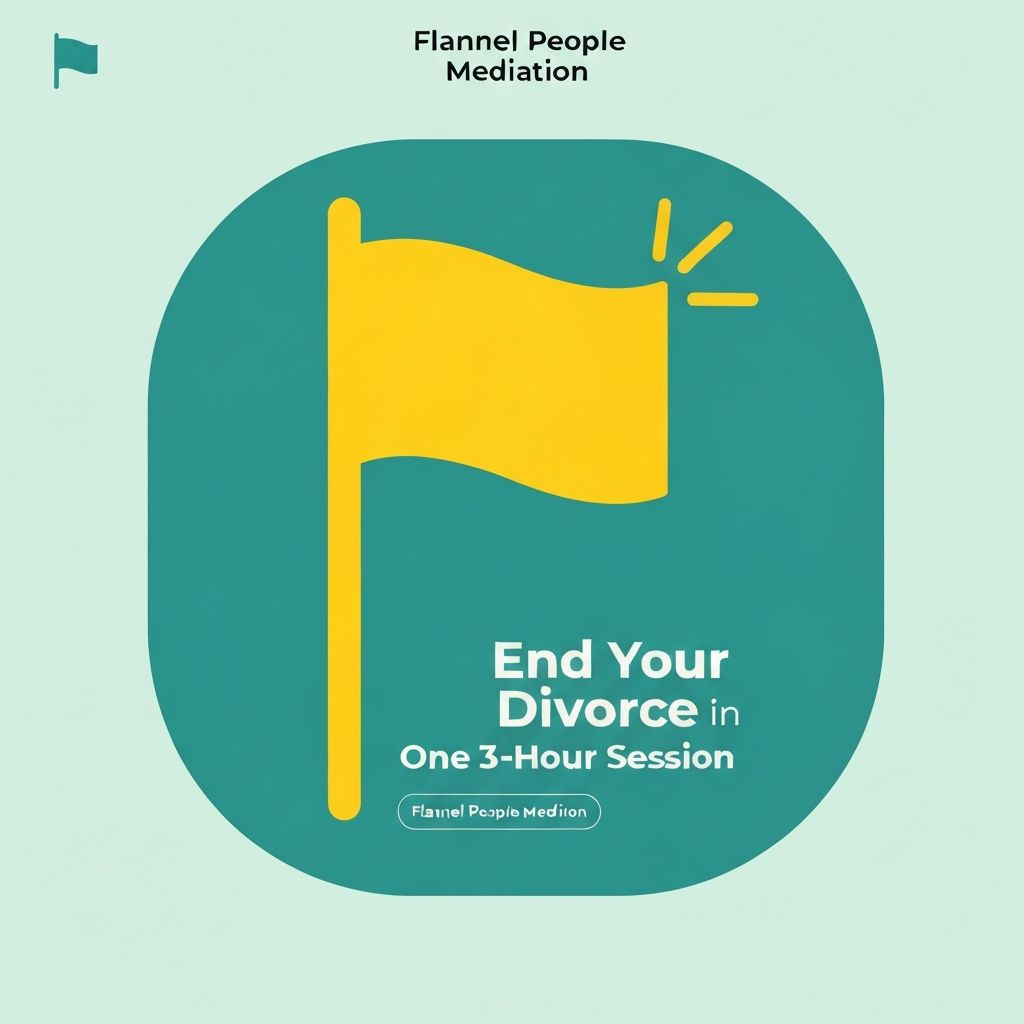
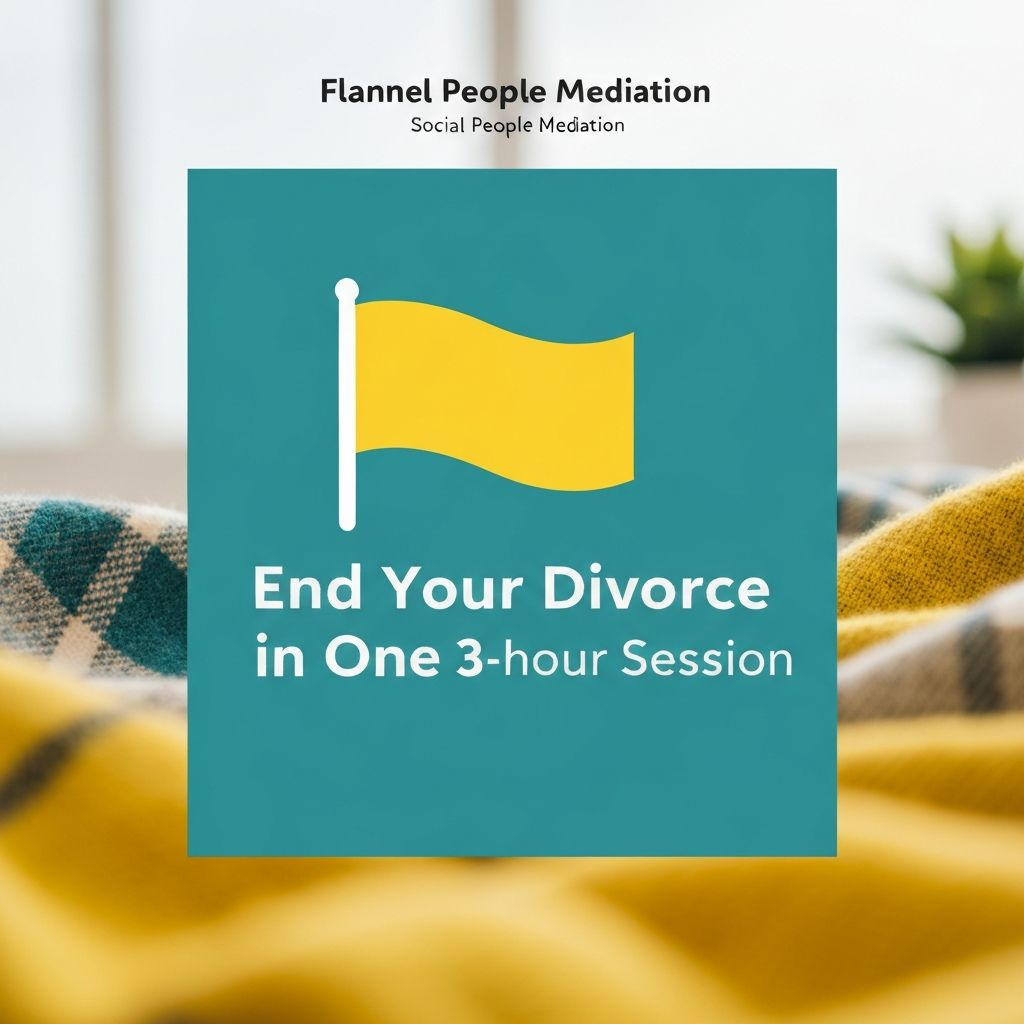
feat: replace OG preview image with professional photo
Update metadata to use new collaborative image for social sharing

diff --git a/app/layout.tsx b/app/layout.tsx
@@ -24,12 +24,12 @@ export const metadata: Metadata = {
   description:
     "End your divorce in one calm, private 3-hour Zoom session. $795 each. No lawyers, no court. Most MN couples finish in one session with peace.",
   generator: "v0.app",
-  metadataBase: new URL("https://flannelpeoplemediation.com"),
+  metadataBase: new URL("https://yes.flannelpeoplemediation.com"),
   openGraph: {
     title: "Flannel People Mediation - End Your Divorce in One 3-Hour Session",
     description:
       "No lawyers. No court battle. From home. Most couples finish in one session. $795 flat fee virtual divorce mediation for MN couples.",
-    url: "https://flannelpeoplemediation.com",
+    url: "https://yes.flannelpeoplemediation.com",
     siteName: "Flannel People Mediation",
     images: [
       {
@@ -47,7 +47,7 @@ export const metadata: Metadata = {
     title: "Flannel People Mediation - End Your Divorce in One 3-Hour Session",
     description:
       "No lawyers. No court battle. From home. Most couples finish in one session. $795 flat fee virtual divorce mediation for MN couples.",
-    images: ["/opengraph-image.png"],
+    images: ["/twitter-image.png"],
   },
   icons: {
     icon: [

diff --git a/app/page.tsx b/app/page.tsx
@@ -151,7 +151,10 @@ export default function Home() {
           <div className="mt-12 md:mt-16 max-w-4xl mx-auto">
             <div className="relative rounded-3xl overflow-hidden shadow-2xl border-4 border-white/60 backdrop-blur-sm hover:shadow-3xl transition-all duration-500 hover:scale-[1.02]">
               <video autoPlay muted loop playsInline className="w-full h-auto md:max-h-[450px] md:object-cover">
-                <source src="https://hebbkx1anhila5yf.public.blob.vercel-storage.com/hero111-bxIFGnnTCKDswFTthgOf7dKKm1dWs9.MP4" type="video/mp4" />
+                <source
+                  src="https://hebbkx1anhila5yf.public.blob.vercel-storage.com/trim%20hero-IZcDvqznnysk63AdKZK7TBDLTxMZo9.mp4"
+                  type="video/mp4"
+                />
               </video>
             </div>
           </div>
